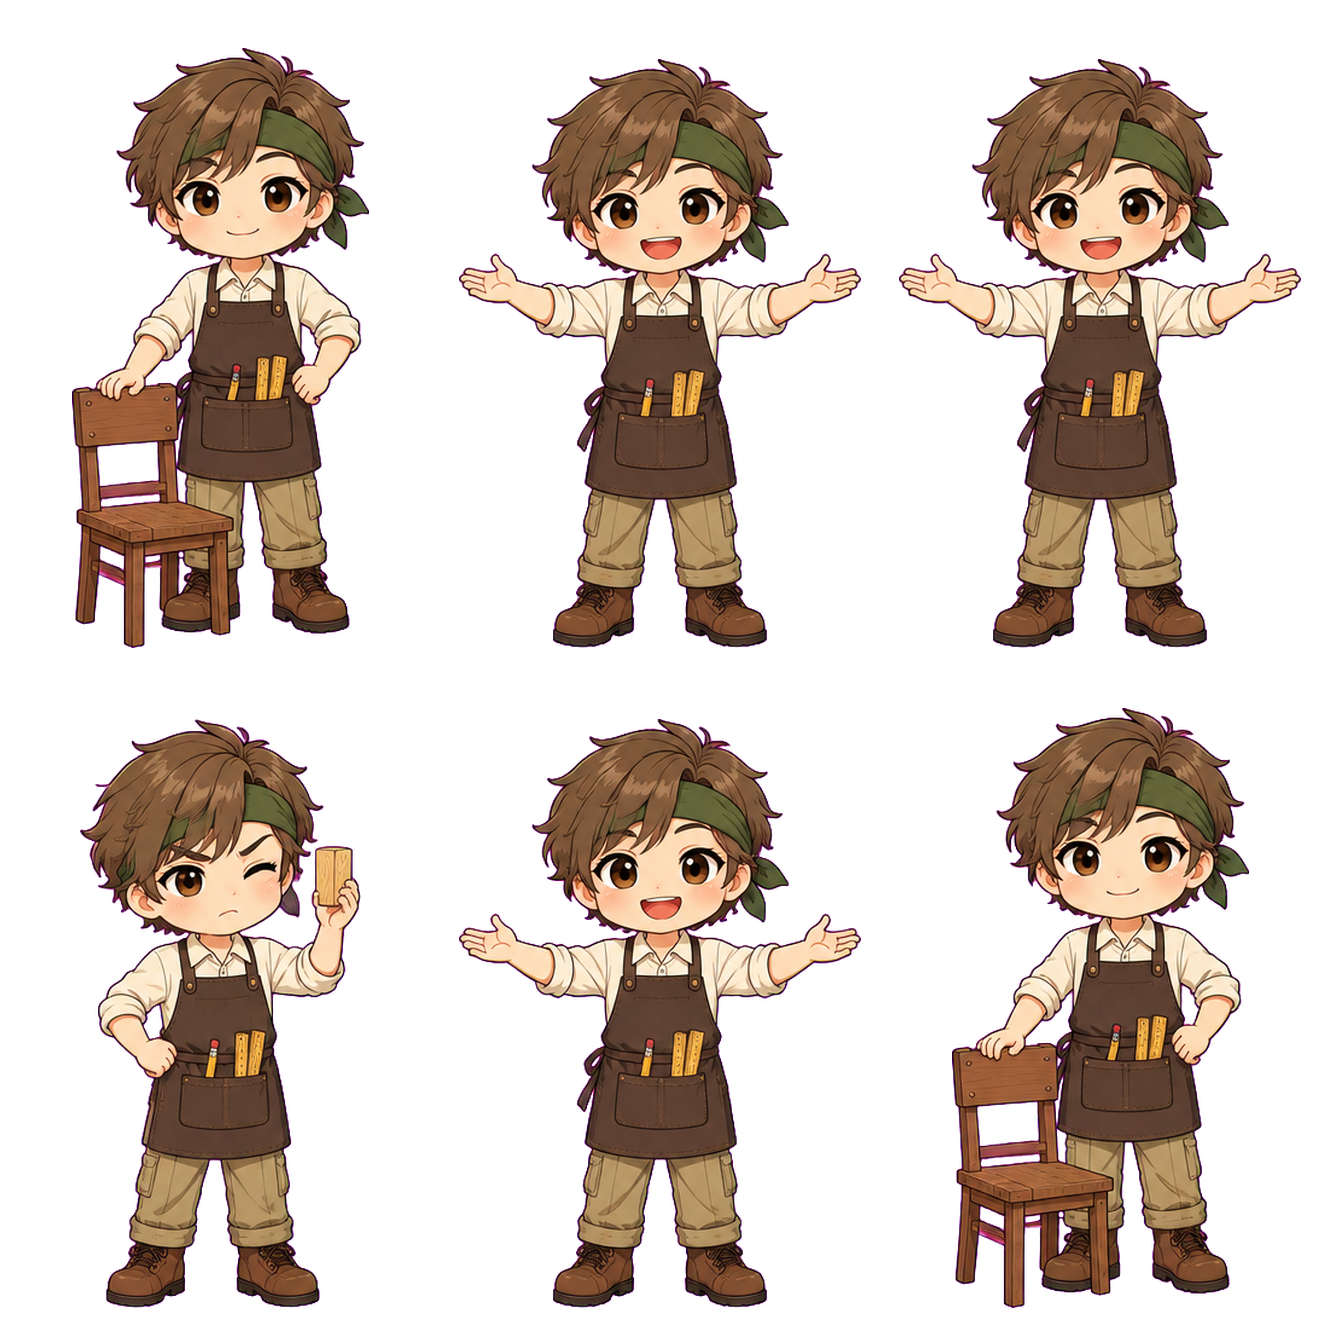
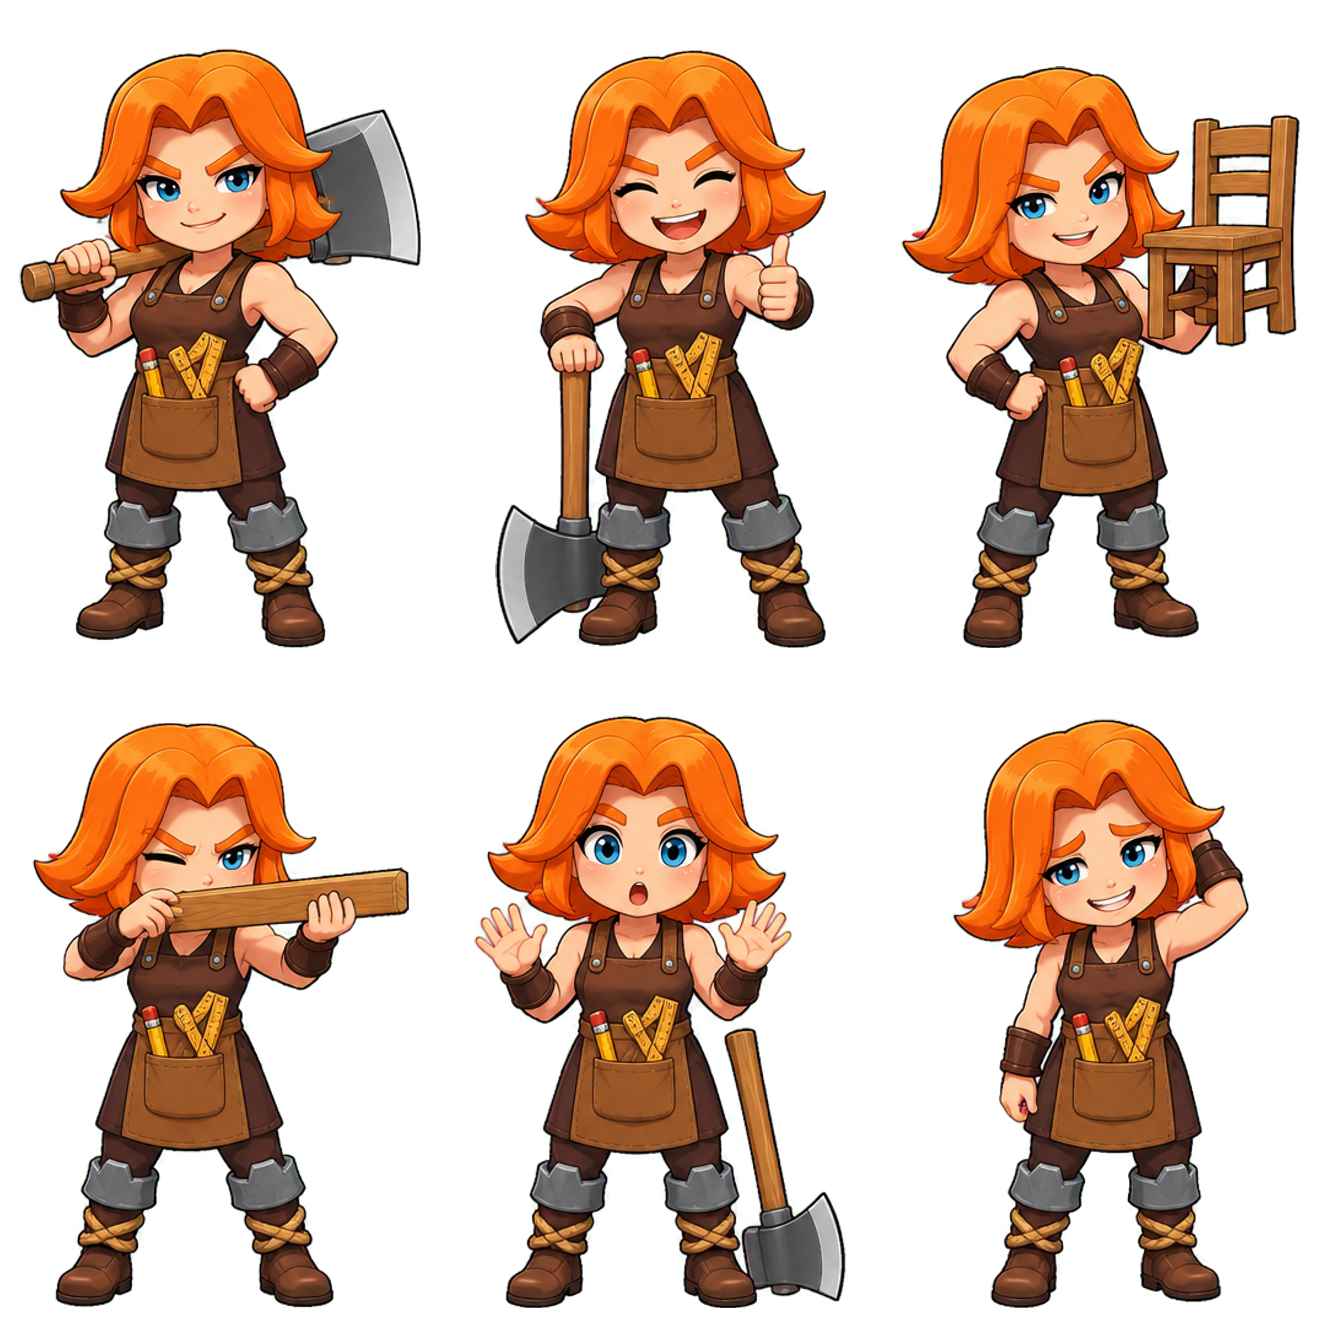
Valkyrie carpenter: keyed web art (tall, portrait, chibi, host sheet) and wiring
optimize-assets.mjs builds host-carpenter.png from her 3x2 original
(one scale, soles on 648 px, enclosed pockets keyed), keys the tall
sprite and portrait, and adds her single-figure chibi. The carpenter
keeps its id; dialogue and the village use the tall art and chibi,
the counter keeps the pose sheet.

Claude-Session: https://claude.ai/code/session_01HULavEv6pBxEfDeGCKxeDu

diff --git a/app/lounge/CreditsModal.tsx b/app/lounge/CreditsModal.tsx
@@ -26,7 +26,7 @@ export function CreditsModal({ onClose }: { onClose: () => void }) {
           의자·벽난로·전구 줄·가마솥·아궁이 등 업그레이드 소품, 범마을 부동산과 나무결 가구점 건물, 빵집·농협·잡화점·어시장
           안의 빵 진열대·케이크 진열장·구움과자 진열장·커피 머신·곡물 자루 수레·저울·과일 상자·씨앗 보관장·생활용품
           진열대·장바구니 거치대·도구 상자·얼음 통·냉동 진열고 원본 모델을 사용했습니다. 테라스와 방의 가구는 3DAssets.dev (CC0)입니다. 주사위·카드·
-          타이머 효과음은 Kenney의 Casino Audio·Interface Sounds (CC0)입니다. 허 선장·문 사장·결 목수
+          타이머 효과음은 Kenney의 Casino Audio·Interface Sounds (CC0)입니다. 허 선장·문 사장
           그림은 Higgsfield(gpt_image_2_5)로 만들었고, 뻥총·다트판·축음기와 주점 음악은 코드로 그렸어요.
           로제·냐모·그웬과 허풍 카드 그림도 Higgsfield로 제작했습니다. 로제와 그웬은
           Riot Games의 미스 포츈·그웬, 냐모는 사용자가 제공한 캐릭터 그림을 참고한 팬 창작입니다.
@@ -36,7 +36,8 @@ export function CreditsModal({ onClose }: { onClose: () => void }) {
           항구와 언덕 주민 가붕·럭스·힘멜·베아트리스·봇치·츠나데·마키마·야니네코 그림도 Higgsfield로 만들었습니다.
           가붕·럭스는 Riot Games의 가렌·럭스, 힘멜은 쇼가쿠칸 『장송의 프리렌』, 베아트리스는 KADOKAWA 『Re:제로부터 시작하는
           이세계 생활』, 봇치는 호분샤 『봇치 더 록!』, 츠나데는 슈에이샤 『나루토』, 마키마는 슈에이샤·MAPPA 『체인소 맨』,
-          야니네코는 코단샤 『야니네코』 캐릭터를 참고한 팬 창작입니다.
+          야니네코는 코단샤 『야니네코』 캐릭터를 참고한 팬 창작입니다. 나무결 가구점 목수 발키리 그림도 Higgsfield로
+          만들었고, Supercell 『클래시 로얄』·『클래시 오브 클랜』의 발키리를 참고한 팬 창작입니다.
         </p>
         <p>
           공간을 걸으며 기능을 만나는 구성은{' '}

diff --git a/app/lounge-assets.ts b/app/lounge-assets.ts
@@ -131,6 +131,9 @@ export const LOUNGE_ASSETS = {
   npc_tsunade_portrait: '/assets/lounge/npc-tsunade-portrait.webp',
   npc_makima_portrait: '/assets/lounge/npc-makima-portrait.webp',
   npc_yanineko_portrait: '/assets/lounge/npc-yanineko-portrait.webp',
+  // 나무결 가구점 목수 발키리 (carpenter-valkyrie-generation.json; keyed by optimize-assets.mjs npcs).
+  npc_valkyrie: '/assets/lounge/npc-valkyrie.webp',
+  npc_valkyrie_portrait: '/assets/lounge/npc-valkyrie-portrait.webp',
   // In-world chibi residents (npc-chibi-generation.json; keyed and sliced by optimize-assets.mjs chibi). The tall art above stays for dialogue.
   chibi_frieren: '/assets/lounge/chibi/npc-frieren.webp',
   chibi_nasera: '/assets/lounge/chibi/npc-nasera.webp',
@@ -149,6 +152,7 @@ export const LOUNGE_ASSETS = {
   chibi_tsunade: '/assets/lounge/chibi/npc-tsunade.webp',
   chibi_makima: '/assets/lounge/chibi/npc-makima.webp',
   chibi_yanineko: '/assets/lounge/chibi/npc-yanineko.webp',
+  chibi_valkyrie: '/assets/lounge/chibi/npc-valkyrie.webp',
   tavernCardKing: '/assets/lounge/cards/tavern-king.webp',
   tavernCardQueen: '/assets/lounge/cards/tavern-queen.webp',
   tavernCardAce: '/assets/lounge/cards/tavern-ace.webp',
@@ -156,7 +160,8 @@ export const LOUNGE_ASSETS = {
   tavernCardBack: '/assets/lounge/cards/tavern-back.webp',
   // 허 선장 (허풍 주점): same 3×2 layout, generated 2026-09-26 (host-captain.prompt.txt).
   hostCaptain: '/assets/lounge/host-captain.webp',
-  // 부동산 문 사장 · 가구점 결 목수: one shared generation (host-shopkeepers.prompt.txt).
+  // 부동산 문 사장: host-shopkeepers.prompt.txt. 가구점 발키리: carpenter-valkyrie-generation.json
+  // (her 3×2 original is laid out as a host sheet by optimize-assets.mjs hosts).
   hostRealtor: '/assets/lounge/host-realtor.webp',
   hostCarpenter: '/assets/lounge/host-carpenter.webp',
   room: '/assets/lounge/club-room.webp',

diff --git a/app/lounge-npc-data.ts b/app/lounge-npc-data.ts
@@ -148,18 +148,27 @@ export const NPCS: Record<NpcId, NpcDef> = {
     art: { kind: 'sheet', host: 'realtor' },
     speech: 'polite',
   },
+  // 발키리 (Clash Royale / Clash of Clans, Supercell) recast as the village
+  // carpenter (user request 2026-10-01). The id stays 'carpenter' so hearts
+  // carry over; the counter keeps the pose sheet (host 'carpenter'), dialogue
+  // and the village use the tall art and the chibi. Voice and arc notes:
+  // app/lounge-npc-lines-carpenter.ts.
   carpenter: {
     id: 'carpenter',
-    name: '결 목수',
-    age: 34,
-    role: '나무결 가구점 주인',
+    name: '발키리',
+    age: 30,
+    role: '나무결 가구점 목수',
     place: '나무결 가구점',
-    intro: '말수는 적지만 나뭇결 얘기가 나오면 눈이 반짝여요.',
-    likesText: '단단한 나무, 솔방울, 도토리',
-    dislikesText: '돌덩이, 광석',
-    gifts: { loved: ['hardwood'], liked: ['wood', 'pinecone', 'acorn', 'chestnut', 'dotorimuk'], disliked: ['stone', 'copper', 'iron'] },
-    rewards: { 40: ['hardwood', 3], 100: ['hardwood', 10] },
-    art: { kind: 'sheet', host: 'carpenter' },
+    intro: '도끼 한 자루로 가구를 짜는 목수. 입만 열면 시비지만, 부탁하면 투덜대면서 다 해 줘요.',
+    likesText: '단단한 나무, 좋은 도끼날 감(철·금), 매운 음식',
+    dislikesText: '꽃다발, 달달한 차',
+    gifts: {
+      loved: ['hardwood', 'iron', 'gold', 'maeuntang', 'kimchi'],
+      liked: ['wood', 'copper', 'pinecone', 'acorn', 'fishstew', 'pepperpotato', 'grilledfish', 'roastchestnut'],
+      disliked: ['kind:flower', 'flowertea', 'jam'],
+    },
+    rewards: { 40: ['hardwood', 3], 100: ['iron', 5] },
+    art: img(A.npc_valkyrie, A.npc_valkyrie_portrait),
     speech: 'casual',
   },
   rose: {

diff --git a/app/lounge/ShopCounter.tsx b/app/lounge/ShopCounter.tsx
@@ -1,5 +1,5 @@
 'use client';
-// The counters of 범마을 부동산 (문 사장), 나무결 가구점 (결 목수) and the shop
+// The counters of 범마을 부동산 (문 사장), 나무결 가구점 (목수 발키리) and the shop
 // upgrade board (also 허 선장's in 허풍 주점). Keyboard first: Tab / ←→ switch
 // the counter's pages, ↑↓ (or ←→↑↓ in the showroom) move the selection,
 // Enter buys or chips in, +/− change the count, R rerolls today's stock.
@@ -655,7 +655,7 @@ export function FurnitureCounter({ room, view, notify, onClose }: Base) {
     }, cols)(e);
   };
   return (
-    <Modal title={`${VENUE_NAME.furniture} · 결 목수`} onClose={onClose} className="sc-counter sc-furniture" wide>
+    <Modal title={`${VENUE_NAME.furniture} · 발키리`} onClose={onClose} className="sc-counter sc-furniture" wide>
       <Keeper host="carpenter" mood={page === 'upgrade' ? 'focus' : bought ? 'calm' : 'smile'} line={line} />
       <Pages
         pages={[

diff --git a/app/lounge-npc-schedule.ts b/app/lounge-npc-schedule.ts
@@ -21,7 +21,7 @@
 // client sets it from the world with setNpcWorld, the server passes it).
 // Inside a house, the library or the lighthouse a resident is not drawn
 // (`hidden` places in a visible area). The eight residents who already work
-// indoors stay at their posts (their scenes draw them); 문 사장 and 결 목수 take
+// indoors stay at their posts (their scenes draw them); 문 사장 and 발키리 take
 // an evening walk through the hub. Stage-2 residents (hasSprite: false) have
 // schedules too, but npcsIn leaves them out until they can be drawn.
 import { kstDay } from './lounge-economy.ts';

diff --git a/app/lounge-village-camera.ts b/app/lounge-village-camera.ts
@@ -40,7 +40,7 @@ export const VILLAGE_FIGURE_HEIGHT = 1.72;
  * of the canvas with the feet on the 97% line (lounge-figure-frame.ts).
  */
 export const FIGURE_CANVAS_RATIO = 640 / 540;
-/** 루미·매화·허 선장·문 사장·결 목수 (pose sheets) are drawn a little taller than friends. */
+/** 루미·매화·허 선장·문 사장 (pose sheets) are drawn a little taller than friends. */
 export const RESIDENT_SCALE = 1.12;
 /** Walking speed (world units per second); Shift runs. */
 export const VIEW_WALK_SPEED = 5.2;

diff --git a/app/lounge-dealer-lines.ts b/app/lounge-dealer-lines.ts
@@ -24,7 +24,7 @@ export const HOSTS = {
   maehwa: { name: '매화', title: '화투방 진행자' },
   captain: { name: '허 선장', title: '허풍 주점 주인' },
   realtor: { name: '문 사장', title: '범마을 부동산' },
-  carpenter: { name: '결 목수', title: '나무결 가구점 주인' },
+  carpenter: { name: '발키리', title: '나무결 가구점 목수' },
 } as const;
 
 /** FNV-1a 32-bit: stable across browsers and the server. */

diff --git a/app/lounge-game.tsx b/app/lounge-game.tsx
@@ -391,7 +391,7 @@ type ModalName =
   | 'npcRequests'
   // 무드 (U): needs, thoughts, inspiration, 응원하기.
   | 'mood'
-  // 부동산 · 가구점 counters and the shop upgrade board (허 선장 · 문 사장 · 결 목수).
+  // 부동산 · 가구점 counters and the shop upgrade board (허 선장 · 문 사장 · 발키리).
   | 'realty'
   | 'furniture'
   | 'tavernUp'

diff --git a/app/lounge-npc-chibi.ts b/app/lounge-npc-chibi.ts
@@ -27,5 +27,6 @@ export const NPC_CHIBI: Partial<Record<NpcId, NpcChibi>> = {
   tsunade: { asset: A.chibi_tsunade, w: 512, h: 640 },
   makima: { asset: A.chibi_makima, w: 512, h: 640 },
   yanineko: { asset: A.chibi_yanineko, w: 512, h: 640 },
+  carpenter: { asset: A.chibi_valkyrie, w: 512, h: 640 },
 };
 export const npcChibi = (id: NpcId): NpcChibi | undefined => NPC_CHIBI[id];
